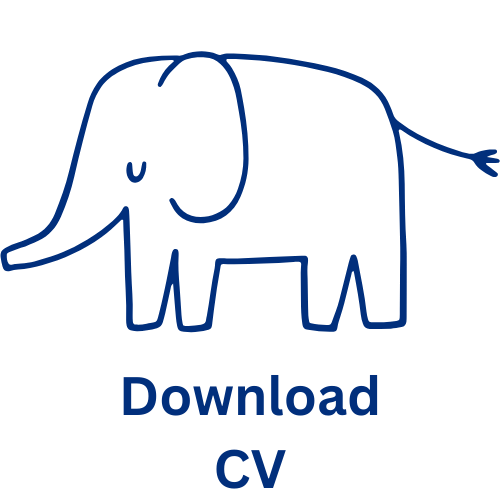
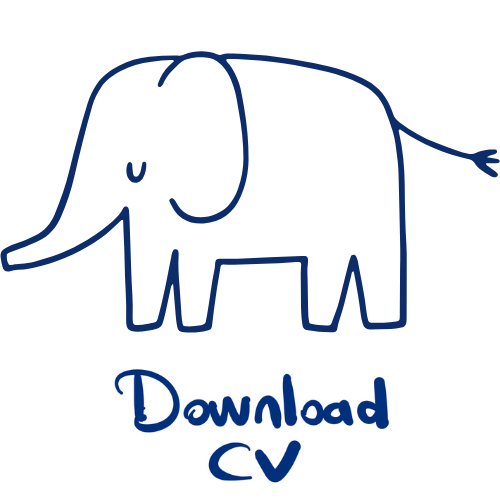
download buttons are updated

diff --git a/index.md b/index.md
@@ -12,7 +12,7 @@ title: Burak Kılıç
 
 # Burak Kılıç
 Ph.D. Candidate, Istanbul Technical University<br/>
-Istanbul, Türkiye<br/>
+Istanbul, Türkiye<br/><br/>
 
 <img src="/assets/mail.jpeg" alt="mail" width="300">
 
